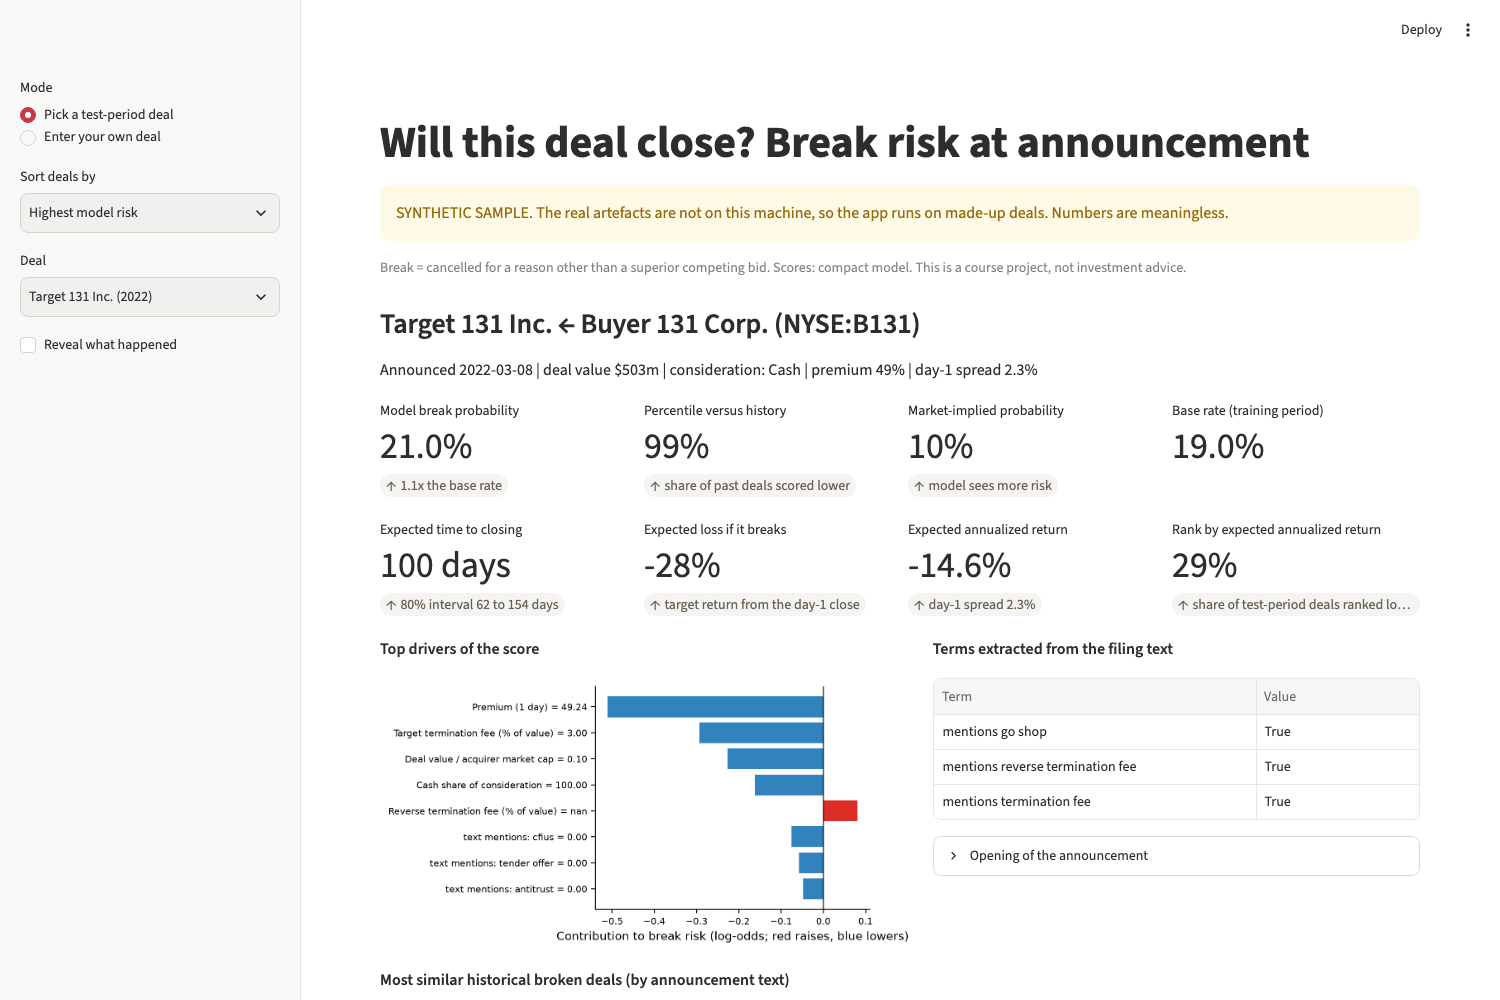
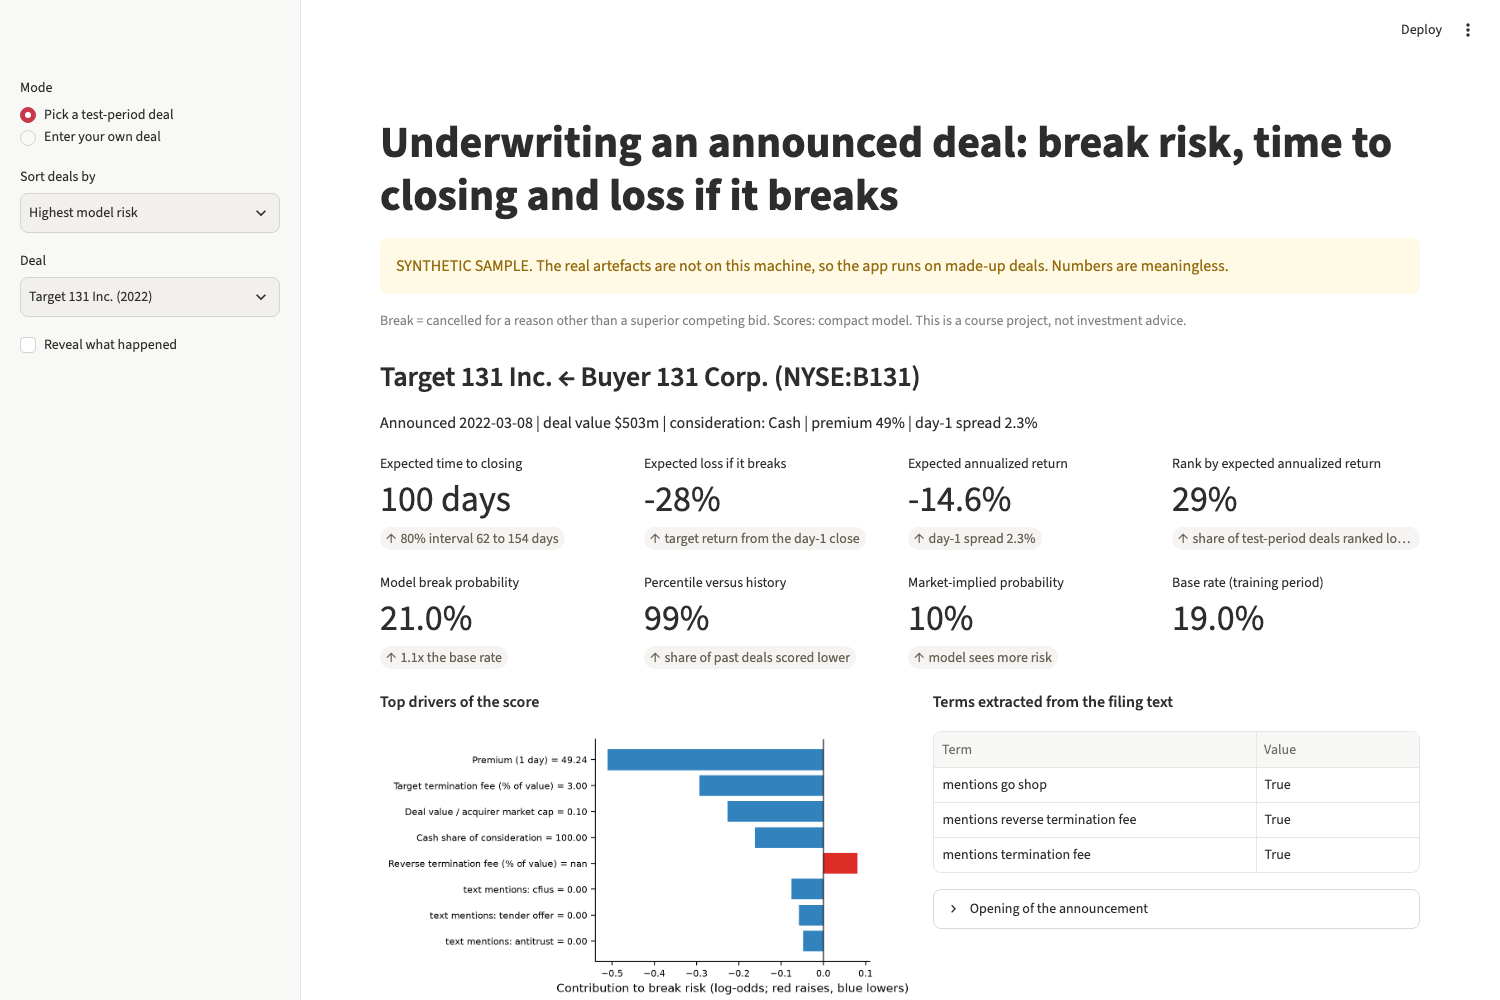
Demo renamed to the underwriting framing; underwriting row first; synthetic screenshots regenerated

Changed region(s): [[0.2453, 0.124, 0.9507, 0.992], [0.828, 0.682, 0.8587, 0.868], [0.644, 0.899, 0.7667, 0.93]]

diff --git a/app/demo.py b/app/demo.py
@@ -21,7 +21,7 @@ sys.path.insert(0, str(ROOT / "src"))
 import build_demo_artifacts as B   # noqa: E402
 import features as F               # noqa: E402
 
-st.set_page_config(page_title="Deal break risk", layout="wide")
+st.set_page_config(page_title="Deal underwriting", layout="wide")
 
 NICE = {
     "log_deal_value": "Deal size", "premium_1d": "Premium (1 day)", "cash_pct": "Cash share of consideration", "solicited": "Solicited approach",
@@ -88,7 +88,7 @@ def headline(p: float, pct: float, base: float, p_mkt):
 
 
 def underwriting(u, spread):
-    """Second row: the three numbers an arbitrageur underwrites and the expected annualized return they imply."""
+    """First row: the three numbers an arbitrageur underwrites and the expected annualized return they imply."""
     if not u:
         st.caption("Underwriting view (time to closing, loss if it breaks, expected annualized return): not available for this deal.")
         return
@@ -102,7 +102,7 @@ def underwriting(u, spread):
 
 
 art = load()
-st.title("Will this deal close? Break risk at announcement")
+st.title("Underwriting an announced deal: break risk, time to closing and loss if it breaks")
 if art["synthetic"]:
     st.warning("SYNTHETIC SAMPLE. The real artefacts are not on this machine, so the app runs on made-up deals. Numbers are meaningless.")
 st.caption(f"Break = cancelled for a reason other than a superior competing bid. Scores: {art['source']}. "
@@ -121,8 +121,8 @@ if mode == "Pick a test-period deal":
     st.write(f"Announced {d['announced']} | deal value ${d['deal_value']:,.0f}m | consideration: {d['consideration']}"
              + ("" if d["premium_1d"] is None else f" | premium {d['premium_1d']:.0f}%")
              + ("" if d["spread"] is None else f" | {'spread at first monthly mark' if art.get('price_source') == 'Capital IQ monthly' else 'day-1 spread'} {d['spread']:.1%}"))
-    headline(d["score"], d["percentile"], art["base_rate"], d["p_mkt"])
     underwriting(d.get("underwriting"), d["spread"])
+    headline(d["score"], d["percentile"], art["base_rate"], d["p_mkt"])
     if show:
         out = {"closed": "The deal closed.", "topped": "The deal was topped by a higher bid.", "adverse_break": "The deal broke."}[d["outcome"]]
         (st.error if d["outcome"] == "adverse_break" else st.success)(f"Outcome: {out}")

diff --git a/DECISIONS.md b/DECISIONS.md
@@ -421,3 +421,8 @@ fine-tuned encoder, price data, evaluation rigor, demo, project page).
     without changes. One display defect was found and fixed in `app/demo.py`: a conditional expression used as a
     statement made Streamlit print its own help text under the similar-deals table; it is now an if/else statement.
     No result, number or figure changed. The site title in `docs/_config.yml` now matches the page heading.
+121. **Demo renamed to the project framing.** Page title "Deal underwriting"; main title "Underwriting an announced
+    deal: break risk, time to closing and loss if it breaks". The underwriting row (time to closing, loss if it
+    breaks, expected annualized return) now comes first, directly under the deal heading and above the break-risk row;
+    the deal name and the synthetic-sample notice stay above it so the numbers are never shown without them. The
+    three screenshots in `figures/` were regenerated with `app/screenshots.py --force-synthetic`. No number changed.
